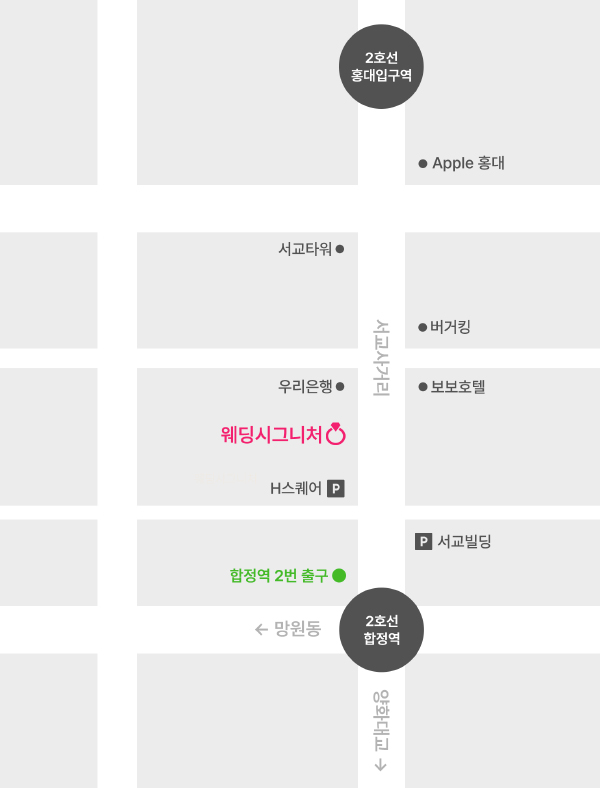
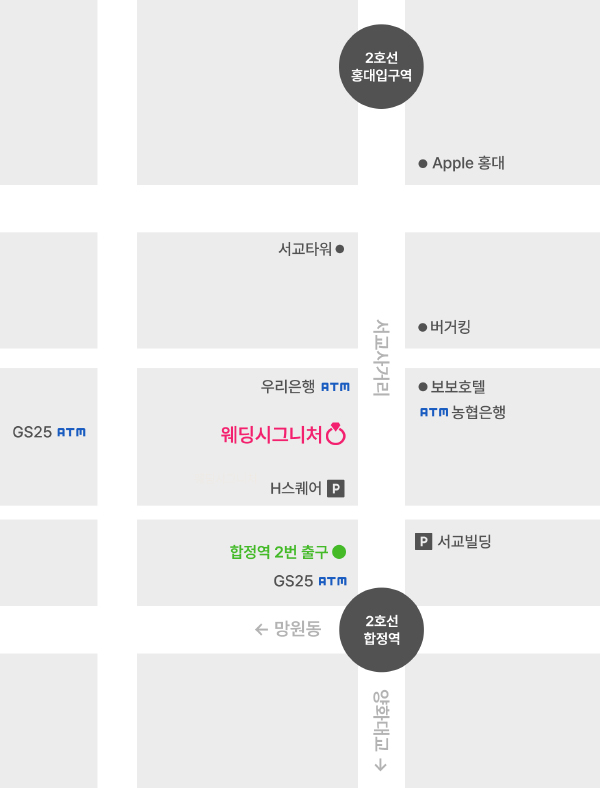
ATM 정보 추가

diff --git a/index.html b/index.html
@@ -532,6 +532,21 @@
                                 · 제 3 주차장: 서교빌딩<br>
                             </div>
                         </div>
+                        <div class="loc-info-type">
+                            <div class="row loc-info-title">
+                                <img src="images/atm.png">
+                                <div class="ml-1 pt-1">ATM</div>
+                            </div>
+                            <div class="loc-info-content">
+                                <div>
+                                    본 건물에 ATM 기기가 없으니 약도를 참고바랍니다.
+                                </div>
+                                · 웨딩시그니처 우측 우리은행<br>
+                                · 합정역 1번출구 GS25<br>
+                                · 웨딩시그니처 뒷편 GS25<br>
+                                · 웨딩시그니처 건너편 농협은행<br>
+                            </div>
+                        </div>
                         <div class="loc-notice mt-5 mr-1 ml-1 pt-4 pb-4 text-center" style="line-height: 1.7;">
                             본 건물 주차장이 협소하오니<br>
                             약도를 참고하여 외부 주차장을 이용해주세요.<br>
